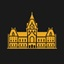
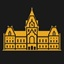
fix: add NeedsRefresh to all museum collection toggles
Without NeedsRefresh: true, toggling a museum collection on/off
updates the config but never signals the wallpaper engine to
refresh its query pool. This caused newly-enabled providers to
not fetch images until app restart or pool exhaustion.

Fixed in: MET, AIC, Rijksmuseum, Cleveland.

diff --git a/pkg/wallpaper/providers/artic/artic.go b/pkg/wallpaper/providers/artic/artic.go
@@ -517,6 +517,7 @@ func (p *Provider) CreateQueryPanel(sm setting.SettingsManager, _ string) *schem
 			Name:         ProviderName + "_" + key,
 			Label:        tour.Name,
 			InitialValue: active,
+			NeedsRefresh: true,
 			ApplyFunc: func(b bool) {
 				_, cid := getQuery(key)
 				if b {

diff --git a/pkg/wallpaper/providers/cleveland/cleveland.go b/pkg/wallpaper/providers/cleveland/cleveland.go
@@ -517,6 +517,7 @@ func (p *Provider) makeCollectionItem(label, key string) schema.BoolItem {
 		Name:         p.ID() + "_" + key,
 		Label:        label,
 		InitialValue: active,
+		NeedsRefresh: true,
 		ApplyFunc: func(b bool) {
 			_, cid := getQuery(key)
 			if b {

diff --git a/pkg/wallpaper/providers/metmuseum/metmuseum.go b/pkg/wallpaper/providers/metmuseum/metmuseum.go
@@ -596,6 +596,7 @@ func (p *Provider) makeCollectionItem(label, key string) schema.BoolItem {
 		Name:         p.ID() + "_" + key,
 		Label:        label,
 		InitialValue: active,
+		NeedsRefresh: true,
 		ApplyFunc: func(b bool) {
 			_, cid := getQuery(key)
 			if b {

diff --git a/pkg/wallpaper/providers/rijksmuseum/rijksmuseum.go b/pkg/wallpaper/providers/rijksmuseum/rijksmuseum.go
@@ -637,6 +637,7 @@ func (p *Provider) makeCollectionItem(label, key string) schema.BoolItem {
 		Name:         p.ID() + "_" + key,
 		Label:        label,
 		InitialValue: active,
+		NeedsRefresh: true,
 		ApplyFunc: func(b bool) {
 			_, cid := getQuery(key)
 			if b {